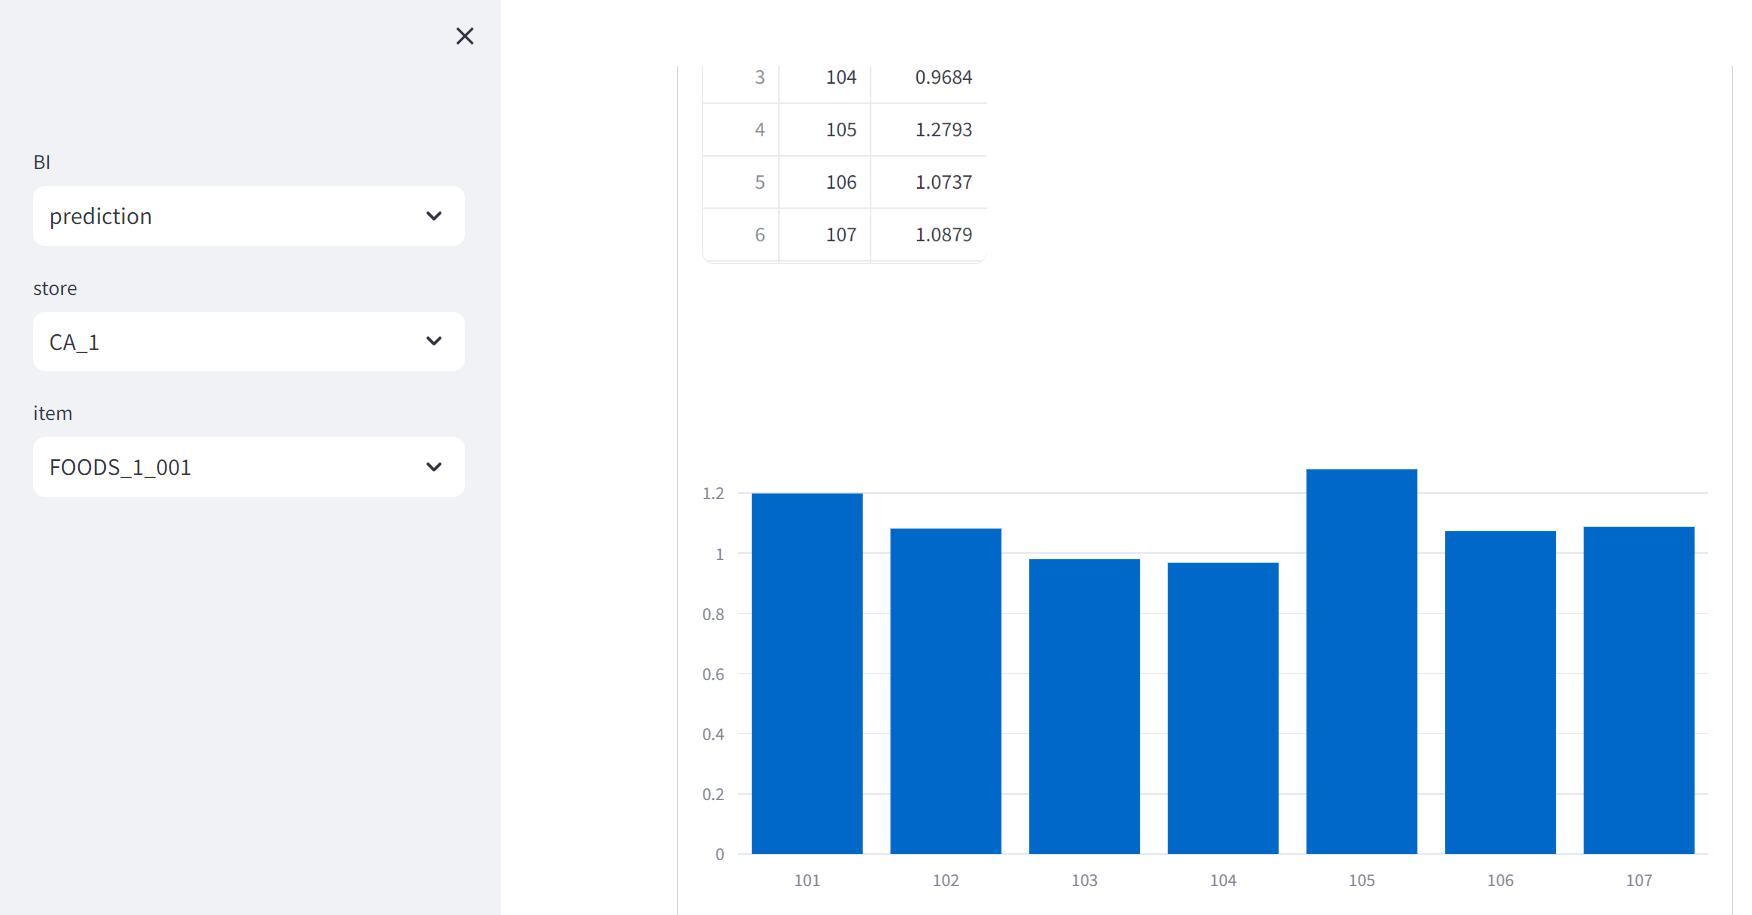
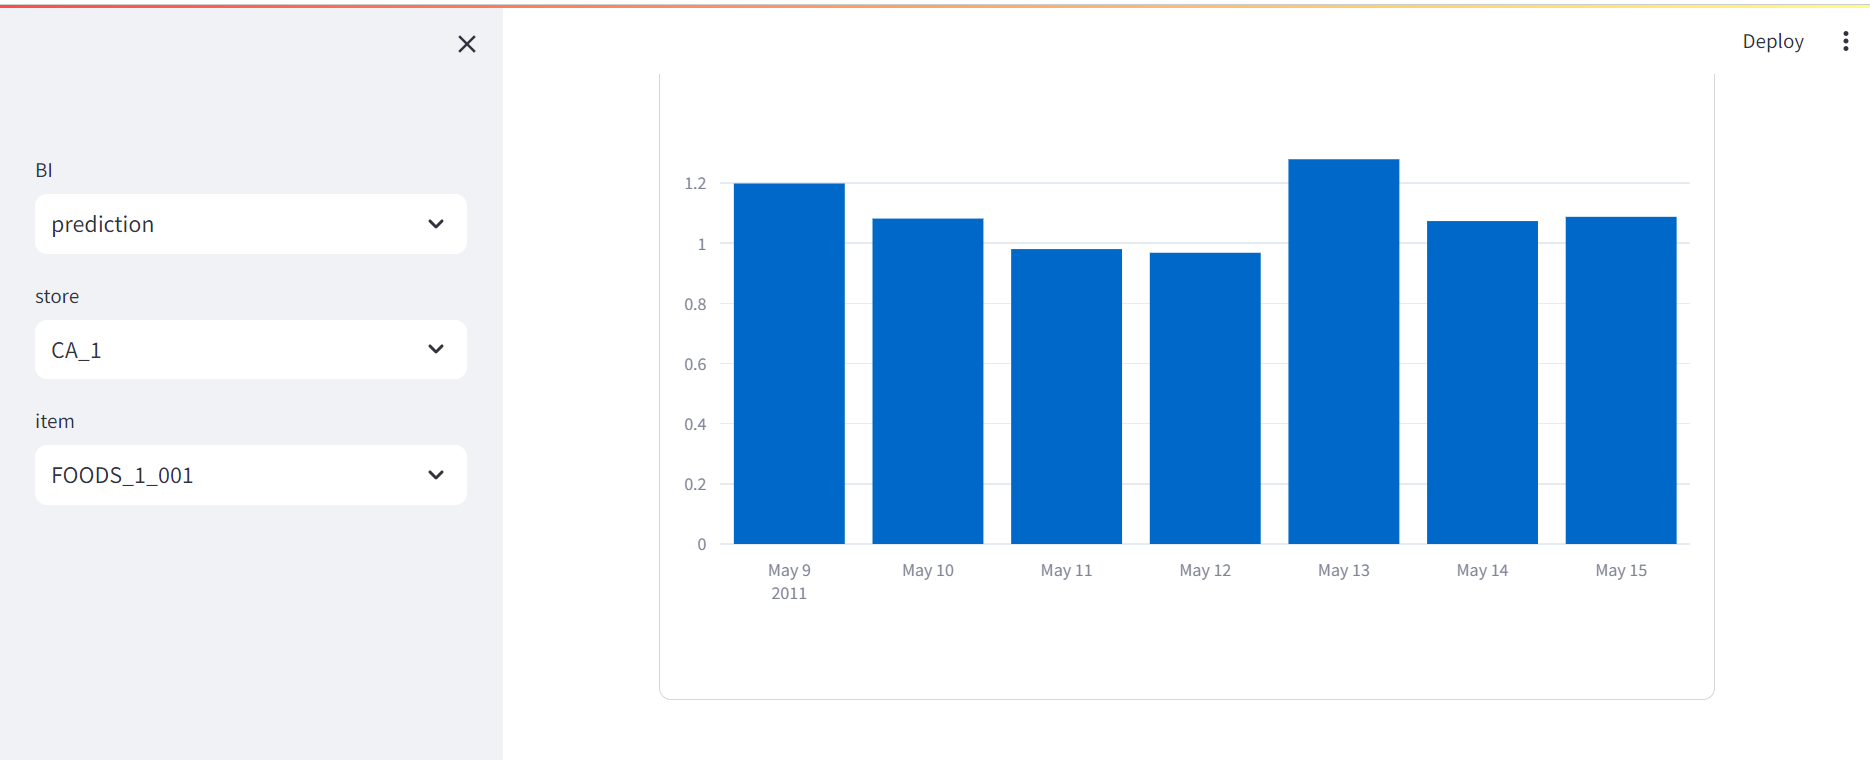
update bi_column

diff --git a/bi/src/repository.py b/bi/src/repository.py
@@ -19,7 +19,8 @@ class SalesRepository(BaseRepository):
         db_client: AbstractDBClient,
     ):
         super().__init__(db_client=db_client)
-        self.table_name = TABLES.SALES.value
+        self.sales_table = TABLES.SALES.value
+        self.calendar_table = TABLES.CALENDAR.value
 
     def select(
         self,
@@ -31,12 +32,25 @@ class SalesRepository(BaseRepository):
         parameters: List[Union[int, str, bool, float]] = []
         query = f"""
         SELECT
-            {self.table_name}.store_id as store_id,
-            {self.table_name}.item_id as item_id,
-            {self.table_name}.date_id as date_id,
-            {self.table_name}.sales as sales
+            {self.sales_table}.store_id as store_id,
+            {self.sales_table}.item_id as item_id,
+            {self.sales_table}.date_id as date_id,
+            {self.calendar_table}.date as date,
+            {self.calendar_table}.wm_yr_wk as wm_yr_wk,
+            {self.calendar_table}.event_name_1 as event_name_1,
+            {self.calendar_table}.event_type_1 as event_type_1,
+            {self.calendar_table}.event_name_2 as event_name_2,
+            {self.calendar_table}.event_type_2 as event_type_2,
+            {self.calendar_table}.snap_ca as snap_ca,
+            {self.calendar_table}.snap_tx as snap_tx,
+            {self.calendar_table}.snap_wi as snap_wi,
+            {self.sales_table}.sales as sales
         FROM
-            {self.table_name}
+            {self.sales_table}
+        LEFT JOIN
+            {self.calendar_table}
+        ON
+            {self.calendar_table}.date_id = {self.sales_table}.date_id
         """
 
         where = "where"
@@ -44,7 +58,7 @@ class SalesRepository(BaseRepository):
         if store is not None:
             query += f"""
             {where}
-                {self.table_name}.store_id = %s
+                {self.sales_table}.store_id = %s
             """
             parameters.append(store)
             where = "AND"
@@ -52,7 +66,7 @@ class SalesRepository(BaseRepository):
         if item is not None:
             query += f"""
             {where}
-                {self.table_name}.item_id = %s
+                {self.sales_table}.item_id = %s
             """
             parameters.append(item)
             where = "AND"
@@ -78,7 +92,8 @@ class PredictionRepository(BaseRepository):
         db_client: AbstractDBClient,
     ):
         super().__init__(db_client=db_client)
-        self.table_name = TABLES.PREDICTION.value
+        self.prediction_table = TABLES.PREDICTION.value
+        self.calendar_table = TABLES.CALENDAR.value
 
     def select(
         self,
@@ -90,12 +105,17 @@ class PredictionRepository(BaseRepository):
         parameters: List[Union[int, str, bool, float]] = []
         query = f"""
         SELECT
-            {self.table_name}.store_id as store_id,
-            {self.table_name}.item_id as item_id,
-            {self.table_name}.date_id as date_id,
-            {self.table_name}.prediction as prediction
+            {self.prediction_table}.store_id as store_id,
+            {self.prediction_table}.item_id as item_id,
+            {self.prediction_table}.date_id as date_id,
+            {self.calendar_table}.date as date,
+            {self.prediction_table}.prediction as prediction
         FROM
-            {self.table_name}
+            {self.prediction_table}
+        LEFT JOIN
+            {self.calendar_table}
+        ON
+            {self.calendar_table}.date_id = {self.prediction_table}.date_id
         """
 
         where = "where"
@@ -103,7 +123,7 @@ class PredictionRepository(BaseRepository):
         if store is not None:
             query += f"""
             {where}
-                {self.table_name}.store_id = %s
+                {self.prediction_table}.store_id = %s
             """
             parameters.append(store)
             where = "AND"
@@ -111,7 +131,7 @@ class PredictionRepository(BaseRepository):
         if item is not None:
             query += f"""
             {where}
-                {self.table_name}.item_id = %s
+                {self.prediction_table}.item_id = %s
             """
             parameters.append(item)
             where = "AND"

diff --git a/machine_learning/src/usecase/data_loader_usecase.py b/machine_learning/src/usecase/data_loader_usecase.py
@@ -22,9 +22,9 @@ class DataLoaderUsecase(object):
         """Data loader usecase.
 
         Args:
-            calendar_repository (AbstractSelectRepository): Repository to retrieve data for calendar.
-            prices_repository (AbstractSelectRepository): Repository to retrieve data for prices.
-            sales_calendar_repository  (AbstractSelectRepository): Repository to retrieve data for training.
+            calendar_repository (AbstractSelectRepository): Repository to load data for calendar.
+            prices_repository (AbstractSelectRepository): Repository to load data for prices.
+            sales_calendar_repository  (AbstractSelectRepository): Repository to load data for training.
         """
 
         self.calendar_repository = calendar_repository
@@ -51,7 +51,7 @@ class DataLoaderUsecase(object):
             prediction_date_to (int): Last date for prediction data.
 
         Returns:
-            RawDataset: Data retrieved from database.
+            RawDataset: Data loaded from database.
         """
         training_data = self.make_training_data(
             date_from=training_date_from,
@@ -116,20 +116,20 @@ class DataLoaderUsecase(object):
             date_to=date_to,            
         )
         dataset_dict = [d.dict() for d in data]
-        df = pd.DataFrame(dataset_dict)
-        df.sort_values(by=["store_id", "item_id", "date_id"])
+        sales_df = pd.DataFrame(dataset_dict)
         
         prices_data = self.load_prices_data()
         prices_dataset_dict = [d.dict() for d in prices_data]
         prices_df = pd.DataFrame(prices_dataset_dict)
-        df = df.merge(prices_df[["store_id", "item_id", "wm_yr_wk", "sell_price"]], on=["store_id", "item_id", "wm_yr_wk"], how="left")
+        sales_df = sales_df.merge(prices_df[["store_id", "item_id", "wm_yr_wk", "sell_price"]], on=["store_id", "item_id", "wm_yr_wk"], how="left")
 
         release_df = prices_df.groupby(["store_id", "item_id"])["wm_yr_wk"].agg(["min"]).reset_index()
         release_df.columns = ["store_id", "item_id", "release"]
         release_df["release"] = release_df["release"] - release_df["release"].min()
+        sales_df = sales_df.merge(release_df, on=["store_id", "item_id"], how="left")
 
-        df = df.merge(release_df, on=["store_id", "item_id"], how="left")
-
+        df = sales_df
+        df = df.sort_values(["store_id", "item_id", "date_id"]).reset_index(drop=True)
         logger.info(f"loaded: {df.shape}")
         logger.info(
             f"""df:

diff --git a/bi/src/view.py b/bi/src/view.py
@@ -163,8 +163,8 @@ def show_sales_daily(
             _df = (
                 df[(df.store_id == s) & (df.item_id == i)]
                 .drop(["store_id", "item_id"], axis=1)
-                .reset_index(drop=True)
                 .sort_values("date_id")
+                .set_index("date_id")
             )
             with st.expander(
                 label=f"STORE {s} ITEM {i}",
@@ -174,7 +174,7 @@ def show_sales_daily(
 
                 fig = go.Figure()
                 sales_trace = go.Bar(
-                    x=_df.date_id,
+                    x=_df.date,
                     y=_df.sales,
                 )
                 fig.add_trace(sales_trace)
@@ -193,8 +193,8 @@ def show_prediction_daily(
             _df = (
                 df[(df.store_id == s) & (df.item_id == i)]
                 .drop(["store_id", "item_id"], axis=1)
-                .reset_index(drop=True)
                 .sort_values("date_id")
+                .set_index("date_id")
             )
             with st.expander(
                 label=f"STORE {s} ITEM {i}",
@@ -204,7 +204,7 @@ def show_prediction_daily(
 
                 fig = go.Figure()
                 sales_trace = go.Bar(
-                    x=_df.date_id,
+                    x=_df.date,
                     y=_df.prediction,
                 )
                 fig.add_trace(sales_trace)

diff --git a/bi/src/service.py b/bi/src/service.py
@@ -37,7 +37,7 @@ class SalesService(BaseService):
             item=item,
         )
         df = pd.DataFrame([d.dict() for d in dataset])
-        df.sort_values(by=["store_id", "item_id", "date_id"])
+        df = df.sort_values(by=["store_id", "item_id", "date_id"]).reset_index(drop=True)
         return df
 
     def list_sales(
@@ -83,7 +83,7 @@ class PredictionService(BaseService):
             item=item,
         )
         df = pd.DataFrame([d.dict() for d in dataset])
-        df.sort_values(by=["store_id", "item_id", "date_id"])
+        df = df.sort_values(by=["store_id", "item_id", "date_id"]).reset_index(drop=True)
         return df
 
     def list_prediction(

diff --git a/bi/src/schema.py b/bi/src/schema.py
@@ -5,6 +5,15 @@ class Sales(BaseModel):
     store_id: str
     item_id: str
     date_id: int
+    date: str
+    wm_yr_wk: int
+    event_name_1: str
+    event_type_1: str
+    event_name_2: str
+    event_type_2: str
+    snap_ca: int
+    snap_tx: int
+    snap_wi: int
     sales: float
 
     class Config:
@@ -16,6 +25,7 @@ class Prediction(BaseModel):
     store_id: str    
     item_id: str
     date_id: int
+    date: str
     prediction: float
 
     class Config:

diff --git a/machine_learning/src/repository/sales_calendar_repository.py b/machine_learning/src/repository/sales_calendar_repository.py
@@ -13,7 +13,7 @@ class SalesCalendarRepository(AbstractSelectRepository):
     ):
         super().__init__(db_client=db_client)
         self.sales_table = TABLES.SALES.value
-        self.calendar_table = TABLES.CALENDAR.value        
+        self.calendar_table = TABLES.CALENDAR.value
 
     def select(
         self,

diff --git a/bi/src/table.py b/bi/src/table.py
@@ -4,3 +4,4 @@ from enum import Enum
 class TABLES(Enum):
     SALES = "sales"
     PREDICTION = "prediction"
+    CALENDAR = "calendar"
